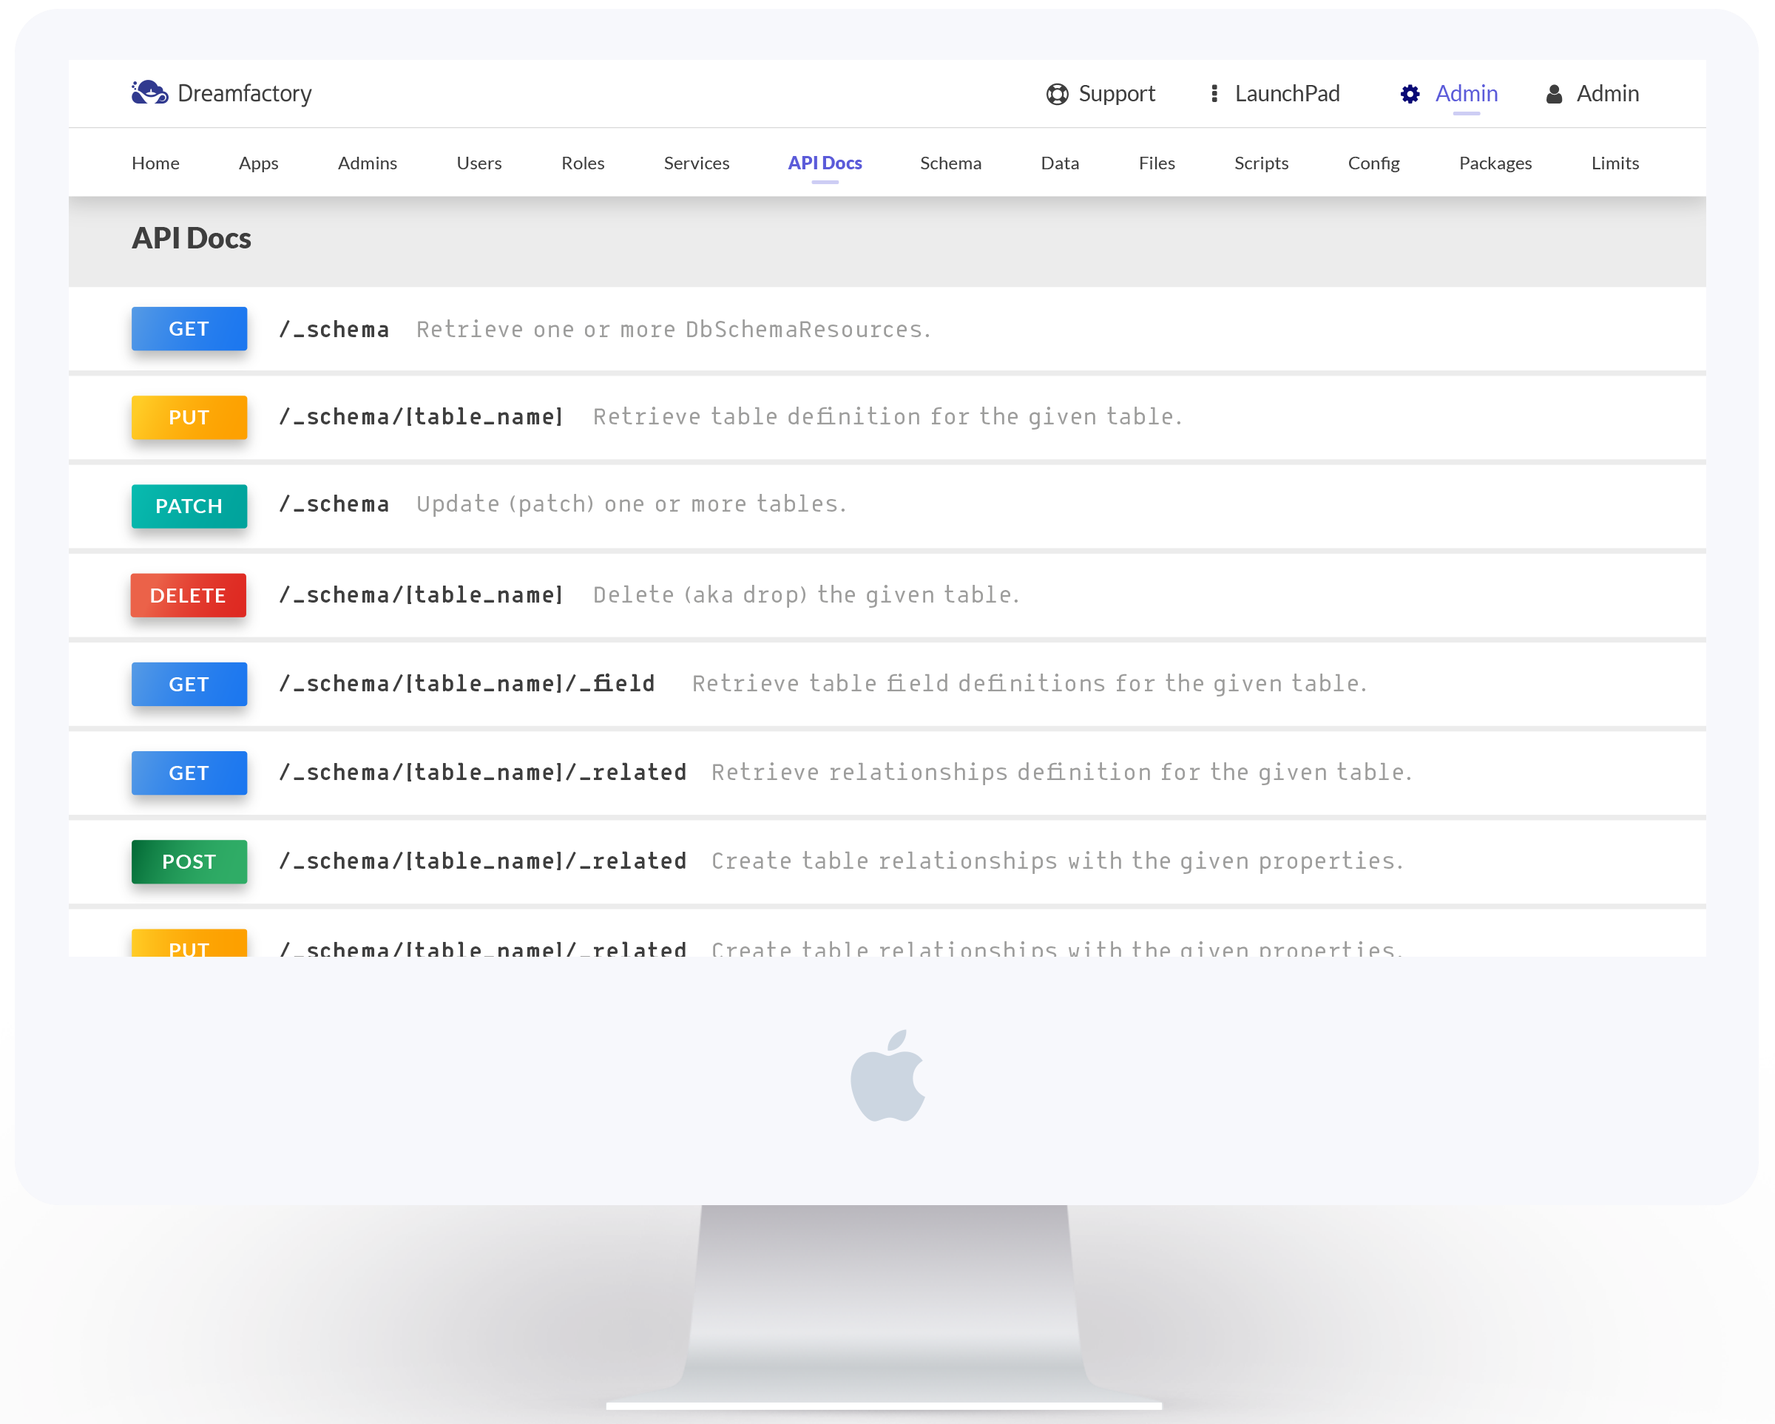
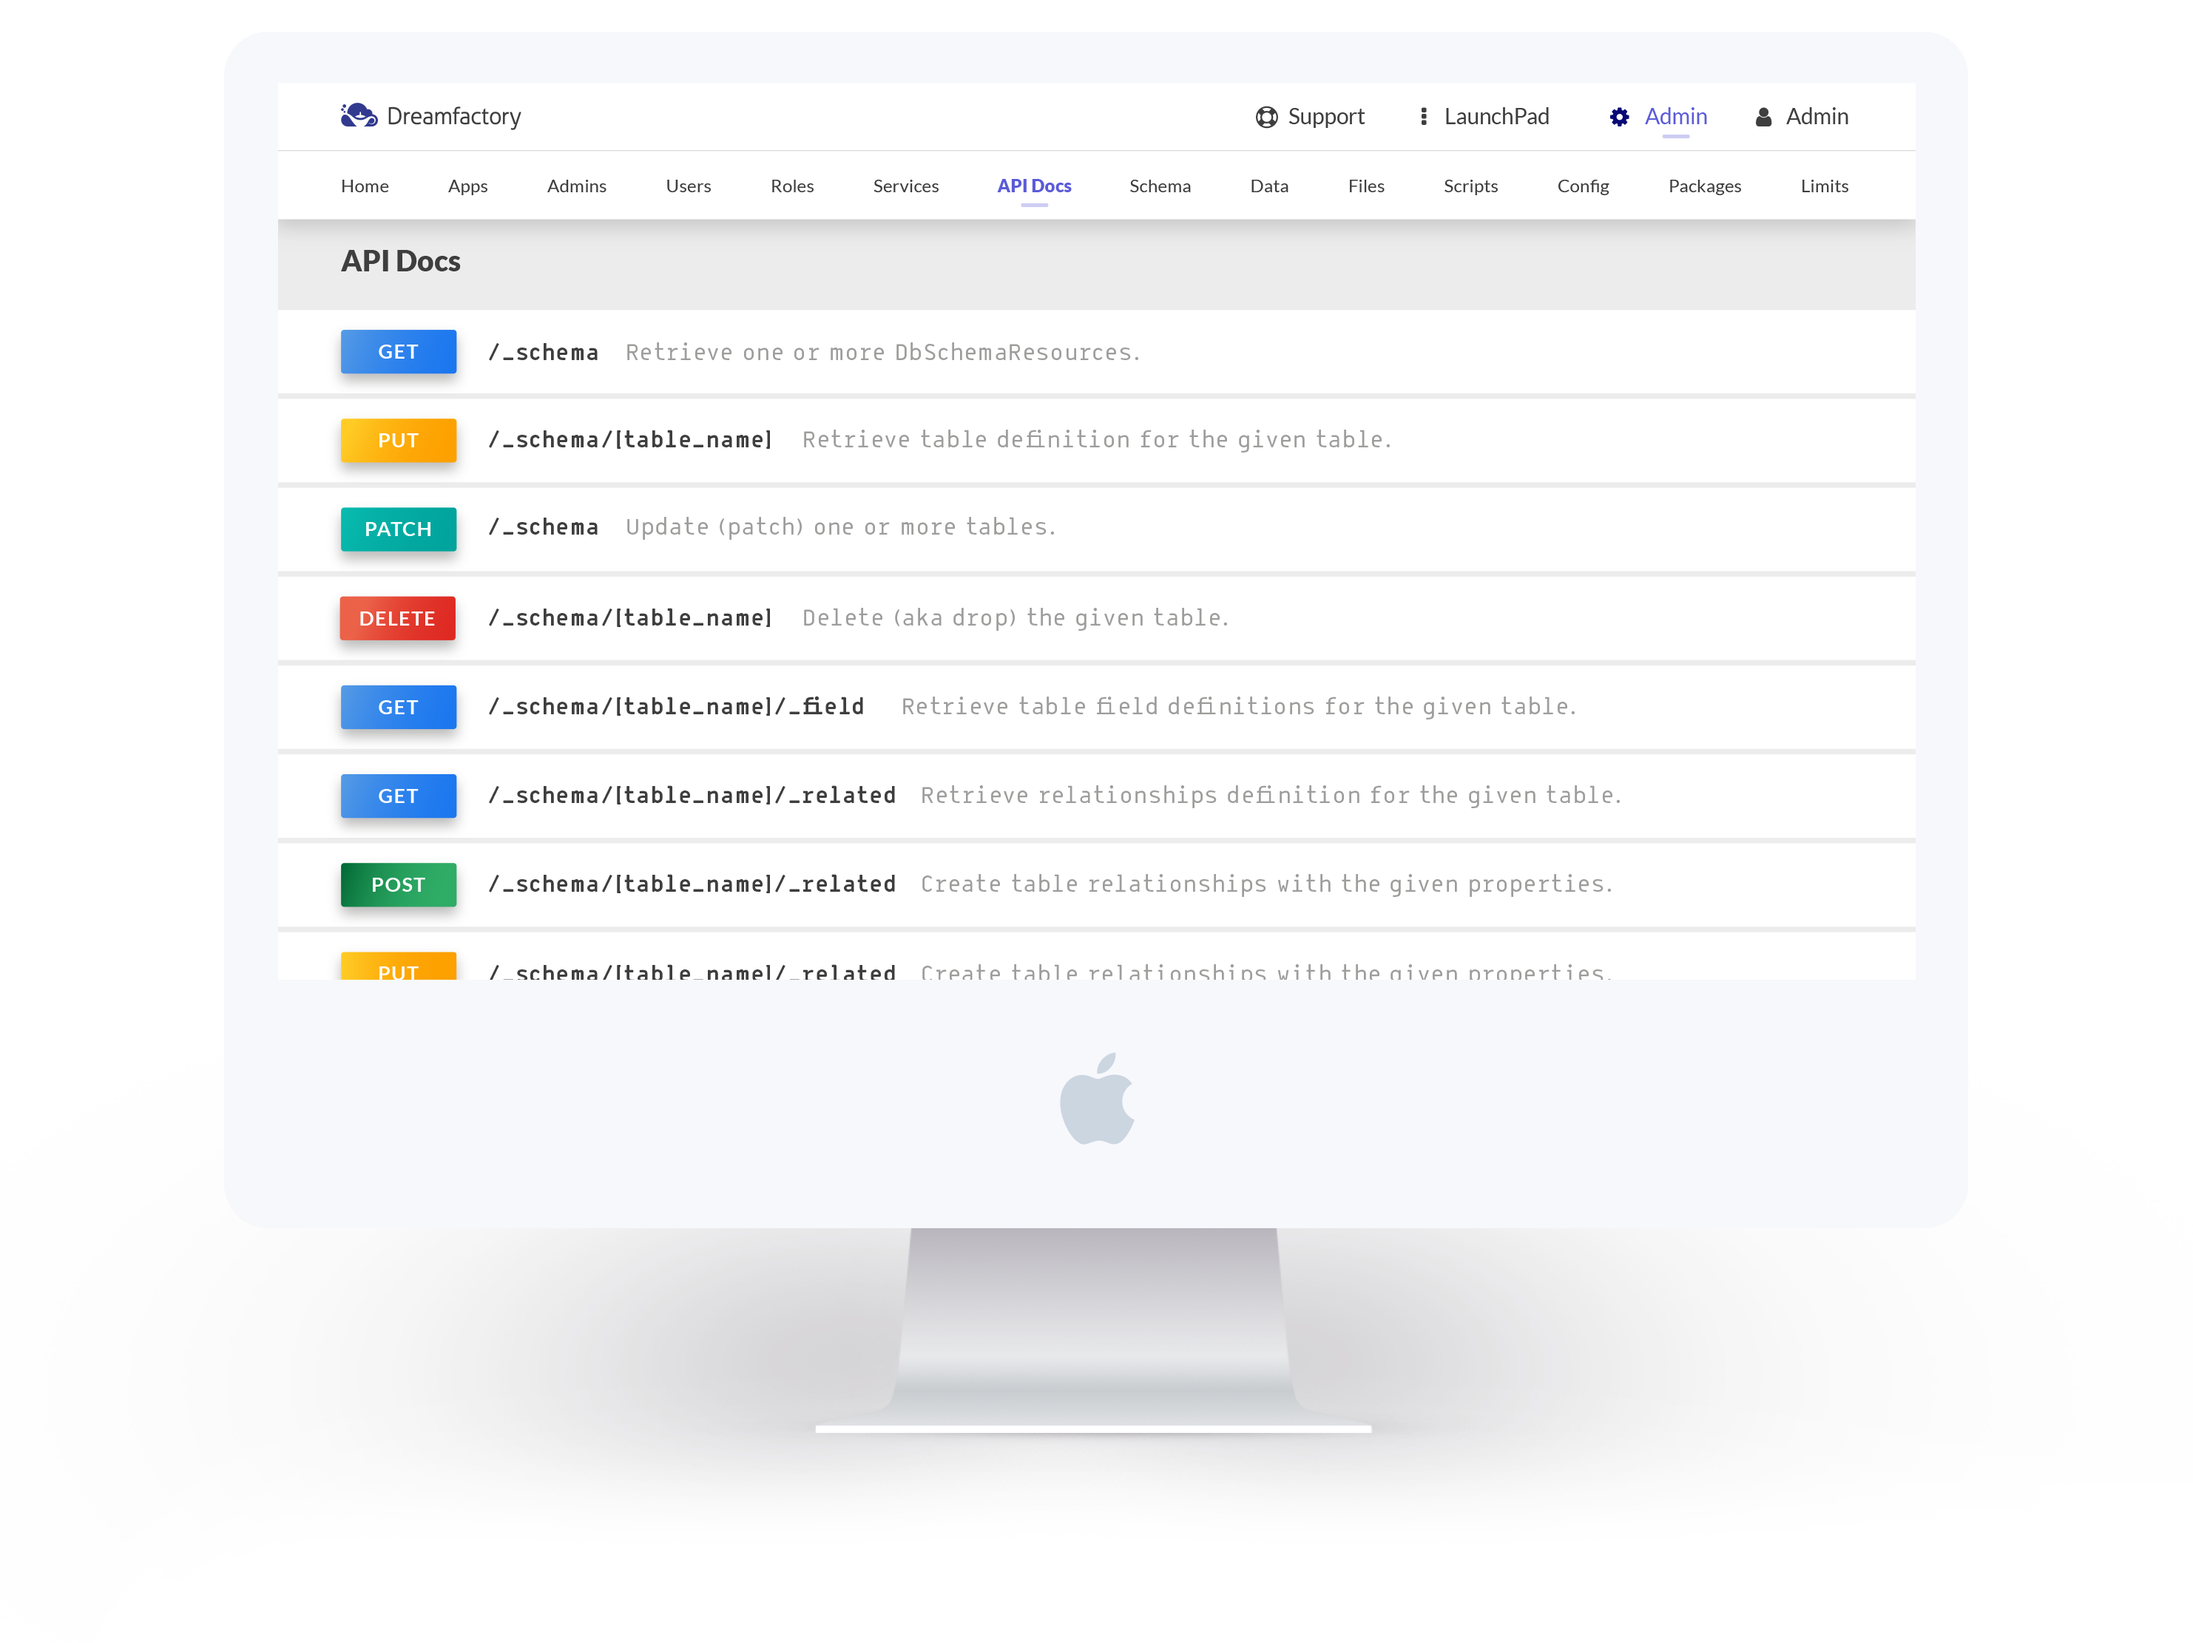
Fix computer image shadow

diff --git a/app/styles/sass/styles.css b/app/styles/sass/styles.css
@@ -9181,7 +9181,7 @@ body .df-sidebar-nav .nav-pills li.active:hover a {
 /* line 149, partials/themes/matan-light/_homepage.scss */
 .main-page #welcomePage .second-banner .df-mac-preview .df-mac-preview-overlay {
   width: 100%;
-  height: 68%;
+  height: 60%;
   position: absolute;
   top: 0;
   left: 0;
@@ -9218,7 +9218,7 @@ body .df-sidebar-nav .nav-pills li.active:hover a {
 /* line 185, partials/themes/matan-light/_homepage.scss */
 .main-page #welcomePage .second-banner .df-mac-preview .df-mac-preview-overlay.text > div {
   display: block;
-  margin-top: calc(36% + (1vw / 3) + 3px);
+  margin-top: calc(30% + (1vw / 3) + 3px);
   color: #0a0a75;
 }
 /* line 194, partials/themes/matan-light/_homepage.scss */

diff --git a/app/styles/sass/partials/themes/matan-light/_homepage.scss b/app/styles/sass/partials/themes/matan-light/_homepage.scss
@@ -148,7 +148,7 @@ $top-circle-centering: "32% - (#{ $play-circle-diameter }) / 2";
 
         & .df-mac-preview-overlay {
           width: 100%;
-          height: 68%;
+          height: 60%;
           position: absolute;
           top: 0;
           left: 0;
@@ -184,7 +184,7 @@ $top-circle-centering: "32% - (#{ $play-circle-diameter }) / 2";
 
             & > div {
               display: block;
-              margin-top: calc(36% + (1vw / 3) + 3px);
+              margin-top: calc(30% + (1vw / 3) + 3px);
               color: #0a0a75;
             }
           }
